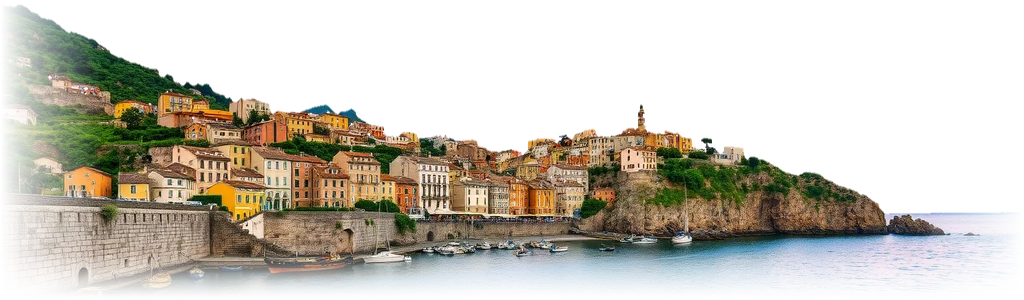
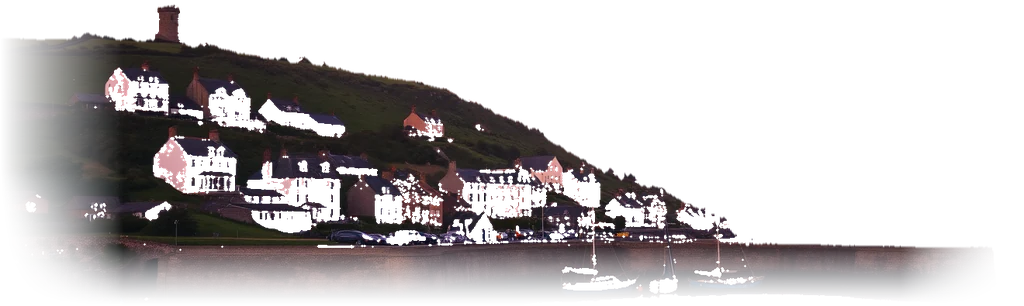
365 Coast Run: scenery pass 5 - each place its own set piece, truer landmarks, livelier countryside and night (owner, 6 Oct)
- Over the road:
  - A chairlift with riders at the Needles; a quarry crane at Portland.
  - The natural arch only at Durdle Door, the one place that has one (a deeper, lumpier
    rock). Old Harry and Golden Cap get footbridges and tree tunnels.
- Landmark paintings:
  - Lymington: a flat brick harbour town with its cupola church and marina.
  - Lyme: pastel cottages on the hill, no invented castle.
  - The Needles: low chalk blades with the lighthouse to scale.
  - Durdle Door: softer edges. Night paintings lifted.
- Bournemouth: modern apartment blocks with glass balconies among the hotels, in warmer
  colours and nearer the road.
- Sandbanks: villas in white render with dark glass, side windows, louvres, roof terraces,
  gates and palms.
- Hengistbury at night: lit beach huts with open doors, more lamps, people and kiosks.
- Countryside: car parks with parked cars, picnic tables with families, caravans and
  kiosks, all nearer the road. Ponies by the forest fence.
- Fixes: marina yachts all moored on the seaward side (masts stood on the verge); the
  Cobb taller with a parapet.
- Critic 6.5 -> 7/10 before the second half of the pass.
- Checks: tests 25/25, goal 16/16 both difficulties, browser checks clean; slow PC
  16.7-17.5 ms.
engine v14, models3d v22, world3d v27, coastrun v32; heroes v4.

diff --git a/games/coastrun/models3d.js b/games/coastrun/models3d.js
@@ -183,7 +183,8 @@ const MODELS = {
     k.box(1, 1.8, 0.06, 0, 0.3, 1.31, shade(col, -0.2)).box(0.06, 1.8, 0.07, 0, 0.3, 1.32, trim);
     for (let q = -4; q <= 4; q++) { if (Math.abs(q) > 1) k.box(0.035, 2.25, 0.02, q * 0.26, 0.27, 1.31, shade(col, -0.14)); for (const sd of [-1, 1]) k.box(0.02, 2.25, 0.035, sd * 1.16, 0.27, q * 0.29, shade(col, -0.14)); }   // the planks
     k.box(2.34, 0.1, 2.64, 0, 2.1, 0, trim);   // a trim band under the roof
-    for (const sd of [-1, 1]) k.box(0.03, 0.5, 0.6, sd * 1.16, 1.3, -0.5, '#2a3a48').box(0.04, 0.6, 0.06, sd * 1.165, 1.25, -0.5, trim);   // a little window each side
+    for (const sd of [-1, 1]) k.box(0.03, 0.5, 0.6, sd * 1.16, 1.3, -0.5, v >= 6 ? '#ff9a2e' : '#2a3a48', 0, 0, 0, v >= 6 ? 'glow' : 'lit').box(0.04, 0.6, 0.06, sd * 1.165, 1.25, -0.5, trim);   // a little window each side (lit, at night)
+    if (v >= 6) k.box(0.9, 1.5, 0.05, 0, 0.35, 1.34, '#ff8a1e', 0, 0, 0, 'glow').box(0.2, 0.2, 0.2, 0, 2.15, 1.4, '#ffd27a', 0, 0, 0, 'glow').box(2.2, 0.02, 1.6, 0, 0.27, 2.2, '#7a4a1a', 0, 0, 0, 'glow');   // the door open on a warm room, a lamp over it, its light on the boards   // the door open, a lamp over it
   },
   brolly(k, v) {
     const cols = [['#e63946', '#ffffff'], ['#1d7fd6', '#ffffff'], ['#f4a261', '#2a9d8f'], ['#ffd23f', '#ee4266']][v % 4];
@@ -197,7 +198,8 @@ const MODELS = {
     if (!v) { const r = rnd(9); for (let i = 0; i < 10; i++) k.ball(0.09, (r() - 0.5) * 2, 1 + r() * 0.6, (r() - 0.5) * 1.6, ['#ff5fa2', '#ffd23f', '#ffffff', '#ff7b39'][i % 4], 1, 1, 1, 'lit', 5); }
   },
   hotel(k, v) {
-    const wall = ['#f2ead8', '#e9e2d6', '#f6efe0', '#dfe6ea'][v % 4], roof = ['#9a5b45', '#5a6670', '#8a4f3c', '#4f5d6a'][v % 4], fl = 5 + (v % 3);
+    if (v >= 4) return apartments(k, v);
+    const wall = ['#f2ead8', '#e9e2d6', '#f6efe0', '#dfe6ea'][v % 4], roof = ['#9a5b45', '#5a6670', '#8a4f3c', '#4f5d6a'][v % 4], fl = [5, 7, 6, 4][v % 4];
     const H = fl * 3.2, glass = ['#3d5a70', '#47627a', '#3a5566', '#4a6478'][v % 4], trim = '#f7f6f2', awn = ['#1d4e89', '#9b3a2c', '#1f6f50', '#2b2d42'][v % 4];
     k.box(22, H, 14, 0, 0, 0, wall).prism(15, 4, 23, 0, H, 0, roof, Math.PI / 2);
     k.box(22.7, 0.55, 14.7, 0, H - 0.2, 0, trim).box(22.3, 3.0, 14.3, 0, 0, 0, shade(wall, -0.07));   // the cornice; the ground floor a shade deeper
@@ -436,12 +438,20 @@ const MODELS = {
     for (let i = 0; i < 4; i++) { const x = -4.5 + i * 3; k.cyl(0.05, 0.06, 6, 6, x, 0, 0, '#d8dde2'); k.box(1.6, 1, 0.04, x + 0.82, 4.8, 0, ['#d32f2f', '#ffd23f', '#1d7fd6', '#2a9d8f', '#ffffff'][(i + v) % 5], 0, 0, 0.08); }
   },
   villa(k, v) {   // Sandbanks: a smart white house of stacked boxes, glass walls to the sea, a pool
-    const w = ['#f6f6f2', '#eef0f0', '#f4efe6', '#e8eef2'][v % 4], gl = '#3d6f8c';
+    const w = ['#f8f8f4', '#f2efe8', '#f6f2ea', '#eef0ee'][v % 4], gl = '#25323e';
     k.box(15, 4, 10, 0, 0, 0, w).box(10, 3.6, 8, v % 2 ? 2 : -2, 4, -0.6, w);
     k.box(14, 2.8, 0.15, 0, 0.6, 5.06, gl, 0, 0, 0, 'shiny').box(9, 2.6, 0.15, v % 2 ? 2 : -2, 4.5, 3.46, gl, 0, 0, 0, 'shiny');
     k.box(15.6, 0.28, 10.6, 0, 4, 0, '#d9d9d4').box(10.6, 0.28, 8.6, v % 2 ? 2 : -2, 7.6, -0.6, '#d9d9d4');
     k.box(15, 0.9, 0.06, 0, 4.28, 5.25, '#bcd7e6', 0, 0, 0, 'shiny');   // the glass balcony rail
-    k.box(7, 0.06, 3.2, -3, 0, 7.2, '#29b4dc', 0, 0, 0, 'shiny').box(7.6, 0.2, 3.8, -3, -0.05, 7.2, '#e7e2d6');   // the pool
+    k.box(7, 0.06, 3.2, -3, 0, 7.2, '#29b4dc', 0, 0, 0, 'shiny').box(7.6, 0.2, 3.8, -3, -0.05, 7.2, '#e7e2d6');
+    const ux = v % 2 ? 2 : -2;
+    for (const sd of [-1, 1]) { k.box(0.12, 2.2, 7, sd * 7.52, 0.9, 0, gl, 0, 0, 0, 'shiny').box(0.12, 2.0, 5, ux + sd * 5.02, 4.7, -0.6, gl, 0, 0, 0, 'shiny'); }   // windows round the sides
+    for (let i = 0; i < 12; i++) k.box(0.12, 2.8, 0.06, ux - 4.4 + i * 0.8, 4.4, 3.62, ['#c9a46a', '#8a8f96', '#d8d2c4', '#5a5f66'][v % 4]);   // a louvred sunshade over the upper glass
+    k.box(10.2, 0.9, 0.06, ux, 7.9, 3.45, '#bcd7e6', 0, 0, 0, 'shiny').cyl(0.05, 0.05, 2.2, 5, ux + 3, 7.9, 1, '#e8e4da');   // the roof terrace: its glass rail, a parasol
+    k.cone(1.6, 0.5, 8, ux + 3, 9.9, 1, ['#ffffff', '#1d3557', '#e9c46a', '#2a9d8f'][v % 4]);
+    k.box(17, 1.3, 0.4, 0, 0, 9.6, w).box(2.6, 1.4, 0.1, 5.5, 0, 9.75, '#5a5f66');   // the front wall, the gate
+    k.cyl(0.18, 0.28, 5.5, 6, 6.2, 0, 7.8, '#8a6a48');
+    for (let i = 0; i < 7; i++) { const a = i / 7 * Math.PI * 2; k.box(0.5, 0.06, 2.6, 6.2 + Math.cos(a) * 1.2, 5.4, 7.8 + Math.sin(a) * 1.2, '#3f8a3a', -a + Math.PI / 2, 0.45, 0); }   // a palm in the garden   // the pool
   },
   terrace(k, v) {   // Weymouth and Lyme: a tall painted house in a row along the front (its face +Z) - framed sash windows with sills, a bay
     // or an iron balcony on the first floor, a shopfront and awning on some, a cornice, the chimney stack and its pots
@@ -491,7 +501,7 @@ const MODELS = {
     const R = 80, n = 40, r = rnd(77);
     for (let i = 0; i < n; i++) {
       const a = -0.15 + i * 0.04, x = Math.sin(a) * R, z = R - Math.cos(a) * R, c = i % 3 ? '#a8a08c' : '#9e9682';
-      k.box(3.7, 6, 9, x, -3, z, c, -a).box(3.7, 1.5, 2, x + 3.6 * Math.sin(a), 3, z - 3.6 * Math.cos(a), shade(c, -0.08), -a);   // the arm, its parapet
+      k.box(3.7, 8, 10, x, -3, z, c, -a).box(3.7, 2.2, 2.2, x + 4 * Math.sin(a), 5, z - 4 * Math.cos(a), shade(c, -0.08), -a).box(3.7, 1.2, 3, x - 4.6 * Math.sin(a), 3.2, z + 4.6 * Math.cos(a), shade(c, 0.06), -a);   // the arm, its parapet, the step down inside
     }
     const ae = -0.15 + n * 0.04, hx = Math.sin(ae) * R, hz = R - Math.cos(ae) * R;
     k.cyl(6, 7, 7.5, 16, hx, -3, hz, '#a49c88').cyl(6.2, 6.2, 0.4, 16, hx, 4.5, hz, '#8e8774');   // the round head
@@ -541,10 +551,11 @@ const MODELS = {
     const sh = new THREE.Shape(), q = rnd(410 + v), j = (a) => a + (q() - 0.5) * 2;
     sh.moveTo(-28, 0); [[-27, 8], [-24, 15], [-18, 20.5], [-9, 23.5], [0, 24], [9, 23], [18, 20], [24, 14], [27.5, 7]].forEach(([x, y]) => sh.lineTo(j(x), j(y))); sh.lineTo(28, 0);
     sh.lineTo(14.8, 0); sh.lineTo(14.8, 3.5); sh.absarc(0, 3.5, 14.8, 0, Math.PI, false); sh.lineTo(-14.8, 0); sh.lineTo(-28, 0);   // (the opening clear of the boundary, 14.2 out)
-    const g = new THREE.ExtrudeGeometry(sh, { depth: 8, bevelEnabled: true, bevelThickness: 1.6, bevelSize: 1.4, bevelSegments: 2, curveSegments: 14 }); g.translate(0, 0, -4); g.computeVertexNormals();
+    const g = new THREE.ExtrudeGeometry(sh, { depth: 15, bevelEnabled: true, bevelThickness: 2.2, bevelSize: 1.4, bevelSegments: 2, curveSegments: 14 }); g.translate(0, 0, -7.5); g.computeVertexNormals();   // (deep: from the side a thin one read as a ring)
     k.put(g, '#d2c7ab', 0, 0, 0, 0, 0, 0, 1, 1, 1, 'lit');   // (plain weathered rock: the masonry texture made it a bridge)
-    for (const sd of [-1, 1]) for (let i = 0; i < 3; i++) k.blob(3.6 + q() * 2.2, sd * (21 + q() * 3), 2 + i * 4.5, (q() - 0.5) * 7, '#cfc4a8', 1, 1.2, 1, 430 + v * 9 + i + (sd > 0 ? 5 : 0));   // lumps on the legs
-    k.blob(9, 0, 22.9, 0, '#6f9a45', 1.9, 0.26, 0.72, 440 + v);   // grass on top (hugging the rock: wider and thinner, from below it read as a green line in the sky)
+    for (const sd of [-1, 1]) for (let i = 0; i < 4; i++) k.blob(3.8 + q() * 2.4, sd * (21 + q() * 3), 2 + i * 4.2, (q() - 0.5) * 13, '#cfc4a8', 1, 1.2, 1, 430 + v * 9 + i + (sd > 0 ? 5 : 0));   // lumps on the legs
+    for (let i = 0; i < 4; i++) k.blob(4 + q() * 2, (q() - 0.5) * 30, 20 + q() * 3, (q() - 0.5) * 12, '#d6ccb2', 1.3, 0.7, 1, 450 + v * 9 + i);   // and over the top
+    k.blob(9, 0, 22.6, 0, '#6f9a45', 1.8, 0.32, 1.0, 440 + v);   // grass on top (hugging the rock: wider and thinner, from below it read as a green line in the sky)
   },
   treearch(k, v) {   // old trees either side of the lane, their crowns meeting over the road: a green tunnel 60 m long to drive through.
     // The crowns are solid lumpy balls of leaves (leaf cards, seen from right underneath, showed as flat planks across the sky)
@@ -587,8 +598,8 @@ const MODELS = {
   marina(k, v) {   // a pontoon along the shore with yachts moored either side: a forest of masts (v 3+: at night, lit)
     const night = v >= 3, r = rnd(800 + v), wood = night ? '#4a4038' : '#9a8266';
     k.box(2, 0.3, 44, 0, 0.1, 0, wood);
-    for (let z = -20; z <= 20; z += 5) { for (const sd of [-1, 1]) k.box(4.6, 0.25, 0.7, sd * 3.3, 0.1, z, wood); for (const sd of [-1, 1]) k.cyl(0.16, 0.16, 2.2, 5, sd * 1.05, -1.4, z, '#3a3028'); }   // the fingers, the piles
-    for (let z = -17.5; z <= 17.5; z += 5) for (const sd of [-1, 1]) if (r() < 0.85) moored(k, sd * 1.2, z, sd * (8 + r() * 3), r, night);
+    for (let z = -20; z <= 20; z += 5) { k.box(4.6, 0.25, 0.7, 3.3, 0.1, z, wood); for (const sd of [-1, 1]) k.cyl(0.16, 0.16, 2.2, 5, sd * 1.05, -1.4, z, '#3a3028'); }   // the fingers, the piles
+    for (let z = -17.5; z <= 17.5; z += 5) for (const off of [0, 2.5]) if (r() < 0.85) moored(k, 1.2, z + off, 8 + r() * 3, r, night);   // (all out on the seaward side, +X)
     if (night) for (let z = -20; z <= 20; z += 10) k.box(0.2, 0.2, 0.2, 0, 1.2, z, '#ffe2a0', 0, 0, 0, 'glow').cyl(0.06, 0.06, 1, 4, 0, 0.3, z, '#2a2e36');
   },
   quaylight(k) { k.cyl(0.12, 0.16, 1.0, 6, 0, 0, 0, '#2a2e36').box(0.24, 0.24, 0.24, 0, 1.0, 0, '#ffe2a0', 0, 0, 0, 'glow'); },   // a lamp on the quay's edge
@@ -643,6 +654,45 @@ const MODELS = {
     }
     k.box(27, 0.8, 4, 0, 13.2, 0, '#d8dce0').box(27, 0.3, 4.1, 0, 13.0, 0, '#3ec1ff', 0, 0, 0, 'glow');   // the gantry over the road, lit underneath
   },
+  carpark(k, v) {   // a clifftop car park: gravel, a row of parked cars, a pay machine, people heading off for a walk
+    const r = rnd(1000 + v * 3), cols = ['#d62828', '#1d4ed8', '#f4f4f4', '#2b2d42', '#f2c14e', '#2a9d8f', '#8d99ae', '#e76f51'];
+    k.box(20, 0.08, 9, 0, -0.02, 0, '#bdb4a2');
+    for (let i = 0; i < 6; i++) { if (r() < 0.2) continue; const x = -8 + i * 3.2, c = cols[(r() * 8) | 0];
+      k.box(1.8, 0.75, 4.1, x, 0.32, 0, c, 0, 0, 0, 'shiny').box(1.6, 0.6, 2.1, x, 1.07, 0.2, shade(c, -0.1)).box(1.62, 0.45, 1.9, x, 1.12, 0.2, '#2a3a48', 0, 0, 0, 'shiny');
+      for (const [wx, wz] of [[-0.85, -1.3], [0.85, -1.3], [-0.85, 1.3], [0.85, 1.3]]) k.axle(0.33, 0.24, 10, x + wx, 0.33, wz, '#151515');
+      if (r() < 0.4) k.box(1.4, 0.4, 0.9, x, 1.67, 0.2, ['#c62828', '#e8e4da', '#3a3a3a'][(r() * 3) | 0]); }   // a roof box or bikes
+    k.box(0.5, 1.5, 0.4, 9.5, 0, 3.5, '#2a5a8a').box(0.4, 0.3, 0.06, 9.5, 1.1, 3.72, '#c8d8e8', 0, 0, 0, 'shiny');
+    for (let i = 0; i < 2 + (v % 2); i++) person(k, 7.5 + i * 0.8, 0, 5 + r(), r, false);
+  },
+  picnic(k, v) {   // a picnic table on the grass, a family sat round it
+    const r = rnd(1040 + v);
+    k.box(1.8, 0.08, 0.8, 0, 0.72, 0, '#9a7a52');
+    for (const sd of [-1, 1]) { k.box(1.8, 0.06, 0.3, 0, 0.42, sd * 0.68, '#8a6a48'); k.box(0.08, 0.72, 1.7, sd * 0.75, 0, 0, '#7a5c3c', 0, sd * 0.35, 0); }
+    for (let i = 0; i < 2 + (v % 2); i++) { const z = i % 2 ? 0.75 : -0.75; sitter(k, -0.5 + (i >> 1), 0.12, z, r); }
+    k.box(0.4, 0.3, 0.3, 0.3, 0.8, 0, '#d8c8a8');   // a hamper
+    if (v % 2) for (let i = 0; i < 1; i++) person(k, 2.0, 0, 0.8, r, true);
+  },
+  chairlift(k, v) {   // a clifftop chairlift crossing over the road: two lattice towers, the cables, open chairs with people riding
+    const r = rnd(1100 + v), steel = '#5a6470';
+    for (const sd of [-1, 1]) { const x = sd * 15.8;
+      for (const [dx, dz] of [[-0.7, -0.7], [0.7, -0.7], [-0.7, 0.7], [0.7, 0.7]]) k.box(0.18, 12, 0.18, x + dx * 0.6, 0, dz * 0.6, steel, 0, dx * 0.05, -dz * 0.05);
+      for (let y = 2; y < 12; y += 2.5) k.box(1.0, 0.1, 0.1, x, y, -0.45, steel).box(1.0, 0.1, 0.1, x, y, 0.45, steel);
+      k.box(1.2, 0.5, 4.6, x, 12, 0, '#c8462a'); }
+    for (const z of [-2, 2]) k.box(31.6, 0.06, 0.06, 0, 11.4 - (z > 0 ? 0.6 : 0), z, '#2a2a2a');
+    for (let i = 0; i < 6; i++) { const z = i % 2 ? 2 : -2, x = -12 + i * 4.8 + (r() - 0.5), y = 10.6 - (z > 0 ? 0.6 : 0);
+      k.box(0.05, 1.6, 0.05, x, y - 1.6, z, '#2a2a2a').box(1.3, 0.12, 0.6, x, y - 2.3, z, ['#2a9d8f', '#e9c46a', '#e76f51'][i % 3]).box(1.3, 0.6, 0.08, x, y - 2.3, z - 0.3, ['#2a9d8f', '#e9c46a', '#e76f51'][i % 3]);
+      if (r() < 0.75) { person(k, x - 0.25, y - 3.15, z, r, r() < 0.5); if (r() < 0.5) person(k, x + 0.3, y - 3.15, z, r, false); } }
+  },
+  craneway(k, v) {   // a quarry's travelling crane spanning the road: two braced legs, a girder across, the crab and hook, a block of stone hanging
+    const y0 = '#d9a400', rust = '#8a5a3a';
+    for (const sd of [-1, 1]) { const x = sd * 15.6;
+      k.box(0.6, 11, 0.6, x, 0, -2, y0).box(0.6, 11, 0.6, x, 0, 2, y0).box(0.3, 0.3, 4, x, 5.5, 0, y0).box(0.3, 4.6, 0.3, x, 3.2, 0, y0, 0, 0.8, 0);
+      k.box(1.4, 0.8, 5, x, 0, 0, '#3a3a3a'); }
+    k.box(33, 1.2, 1.2, 0, 11, -1.4, y0).box(33, 1.2, 1.2, 0, 11, 1.4, y0);
+    for (let x = -15; x <= 15; x += 2.5) k.box(0.15, 1.2, 2.6, x, 11, 0, y0, 0, 0.6, 0);
+    k.box(3, 1.6, 3.6, 4, 12.2, 0, rust).box(1.6, 1.2, 1.4, 4, 13.8, 0, '#2a3a48', 0, 0, 0, 'shiny');   // the crab, its cab
+    k.box(0.05, 3.2, 0.05, 4, 8, 0, '#2a2a2a').box(2.6, 1.4, 1.6, 4, 6.6, 0, '#e8e2d2', 0, 0.2, 0, 'stone');   // a block of Portland stone on the hook
+  },
   balloon(k, v) {   // a hot-air balloon, far off over the land
     const c = [['#e63946', '#ffd23f'], ['#1d7fd6', '#ffffff'], ['#2a9d8f', '#f4a261'], ['#9b5de5', '#ffd23f']][v % 4];
     for (let i = 0; i < 10; i++) k.put(new THREE.SphereGeometry(8, 3, 14, i * Math.PI / 5, Math.PI / 5), c[i % 2], 0, 16, 0, 0, 0, 0, 1, 1.22, 1);
@@ -651,7 +701,20 @@ const MODELS = {
     for (const [x, z] of [[-0.8, -0.8], [0.8, -0.8], [-0.8, 0.8], [0.8, 0.8]]) k.cyl(0.03, 0.03, 2.4, 3, x, 3.4, z, '#5a4a30');
   },
 };
-const capG = (r, l) => new THREE.CapsuleGeometry(r, l, 2, 7);   // (people and ponies come in crowds now: kept light)
+const capG = (r, l) => new THREE.CapsuleGeometry(r, l, 2, 7);
+function apartments(k, v) {   // a modern seafront block (its face +Z): white bands of balconies with glass fronts, a set-back top floor, coloured panels
+  const fl = 6 + (v % 3) * 2, H = fl * 3.0, gl = '#4a6a80', acc = ['#2a9d8f', '#e9c46a', '#e76f51', '#457b9d'][v % 4], wall = ['#f4f4f0', '#f2e2c0', '#e9b8a0', '#e8e4dc'][v % 4];
+  k.box(20, H, 13, 0, 0, 0, wall).box(16, 3, 10, 0, H, -1, wall).box(16.6, 0.3, 10.6, 0, H + 3, -1, '#d8d8d2');   // the block, the set-back penthouse
+  k.box(15.4, 2.4, 0.12, 0, H + 0.3, 4.05, gl, 0, 0, 0, 'shiny');
+  for (let f = 0; f < fl; f++) {
+    const y = f * 3.0;
+    k.box(20.6, 0.28, 2.0, 0, y + 0.02, 7.4, '#fbfbf8');   // the balcony slab
+    if (f) k.box(20.4, 0.95, 0.06, 0, y + 0.3, 8.35, '#bcd7e6', 0, 0, 0, 'shiny');   // its glass front
+    k.box(19.6, 2.3, 0.12, 0, y + 0.35, 6.55, f ? gl : '#3a4a58', 0, 0, 0, 'shiny');   // the glass wall behind
+    for (const x of [-6.5, 0, 6.5]) k.box(0.3, 3.0, 2.0, x, y, 7.4, f % 2 ? acc : wall);   // dividers, every other floor coloured
+  }
+  for (const sd of [-1, 1]) for (let f = 1; f < fl; f++) k.box(0.12, 1.6, 7, sd * 10.05, f * 3.0 + 0.7, -1, gl, 0, 0, 0, 'shiny');   // side windows in a band
+}   // (people and ponies come in crowds now: kept light)
 function ponyAt(k, x, z, col, s, graze) {   // a stocky forest pony, head to -Z: a round barrel of a body, slim legs, a dark mane and tail
   const dk = shade(col, -0.35);
   for (const [lx, lz] of [[-0.2, -0.55], [0.2, -0.55], [-0.2, 0.55], [0.2, 0.55]]) k.put(capG(0.06 * s, 0.72 * s), col, x + lx * s, 0.4 * s, z + lz * s).box(0.13 * s, 0.1 * s, 0.14 * s, x + lx * s, 0, z + lz * s, '#2a2420');

diff --git a/games/coastrun/world3d.js b/games/coastrun/world3d.js
@@ -18,7 +18,7 @@ import { RenderPass } from '../common/vendor/three-r185/addons/postprocessing/Re
 import { UnrealBloomPass } from '../common/vendor/three-r185/addons/postprocessing/UnrealBloomPass.js';
 import { OutputPass } from '../common/vendor/three-r185/addons/postprocessing/OutputPass.js';
 import { ShaderPass } from '../common/vendor/three-r185/addons/postprocessing/ShaderPass.js';
-import * as MD from './models3d.js?v=21';
+import * as MD from './models3d.js?v=22';
 
 const E = window.CREngine, ART = window.CRArt, PAL = ART.PAL;
 const SEG = E.SEG, HALF = E.HALF, RUM = E.RUMBLE, CH = 20;
@@ -111,7 +111,7 @@ const lit = (look) => !!(look.night || look.dusk);   // lamps and headlights on
 // OutRun's way (owner, 5 Oct): the land side of the road ends at a boundary, and the place is packed in right behind it
 const VERGE_K = { bournemouth: 'prom', sandbanks: 'prom', weymouth: 'prom', christchurch: 'hedge', lymington: 'hedge', goldencap: 'hedge', purbeck: 'wall', lyme: 'wall', portland: 'wall', forest: 'fence', swanage: 'vpost', jurassic: 'vpost', needles: 'vpost', hengistbury: 'vpost', harbour: 'rail' };
 const ROWS = {   // set out at a steady spacing behind the boundary: [model, variants, every so many segments, how far out, sideways jitter]
-  bournemouth: [['hotel', 4, 7, 36, 0], ['palm', 3, 2, 16.6, 2.5]], sandbanks: [['villa', 4, 6, 30, 3], ['palm', 3, 3, 16.6, 2]],
+  bournemouth: [['hotel', 8, 7, 29, 2], ['palm', 3, 2, 16.6, 2.5]], sandbanks: [['villa', 4, 7, 28, 3], ['palm', 3, 3, 16.6, 2]],
   weymouth: [['terrace', 6, 3, 21, 0]], lyme: [['terrace', 6, 4, 22, 0]], harbour: [['building', 4, 6, 27, 2]],
   christchurch: [['tpole', 1, 12, 15.6, 0], ['cottage', 2, 14, 26, 6]], lymington: [['cottage', 2, 9, 24, 5], ['tpole', 1, 12, 15.6, 0]],
   purbeck: [['tpole', 1, 12, 15.6, 0]], hengistbury: [['lamp', 2, 6, 15.4, 0]], swanage: [['tpole', 1, 12, 15.6, 0]], goldencap: [['tpole', 1, 12, 15.6, 0]], needles: [['tpole', 1, 14, 15.6, 0]]
@@ -121,12 +121,12 @@ const BUNT = { bournemouth: 1, weymouth: 1, lyme: 1, christchurch: 1, lymington:
 const MORE = {   // closer, thicker dressing behind the boundary (as look.dress: [model, variants, a segment, from, to])
   bournemouth: [['palm', 3, 0.22, 17, 28], ['flowerbed', 3, 0.28, 15.6, 18], ['strollers', 8, 0.16, 15.4, 19.5]], sandbanks: [['palm', 3, 0.22, 17, 28], ['bush', 2, 0.25, 15.6, 22], ['strollers', 8, 0.1, 15.4, 19]],
   christchurch: [['oak', 1, 0.2, 17, 40], ['bush', 2, 0.25, 15.6, 22]], purbeck: [['oak', 1, 0.2, 17, 45], ['sheep', 2, 0.3, 17, 50]],
-  swanage: [['sheep', 2, 0.35, 17, 50], ['gorse', 1, 0.3, 15.6, 30], ['drywall', 3, 0.06, 17, 40], ['caravan', 4, 0.04, 22, 48], ['kiosk', 3, 0.012, 16, 20]],
-  forest: [['pine', 1, 0.7, 15.8, 36], ['beech', 2, 0.6, 15.8, 36], ['oak', 3, 0.3, 16.5, 40], ['ponies', 4, 0.09, 15, 27]],
-  jurassic: [['gorse', 1, 0.35, 15.6, 35], ['heather', 2, 0.45, 15.6, 35], ['drywall', 3, 0.06, 17, 40], ['caravan', 4, 0.05, 22, 48], ['kiosk', 3, 0.012, 16, 20], ['sheep', 2, 0.15, 17, 45]], weymouth: [['flowerbed', 3, 0.3, 15.6, 18], ['strollers', 8, 0.16, 15.4, 18.5]],
+  swanage: [['sheep', 2, 0.35, 17, 50], ['gorse', 1, 0.3, 15.6, 30], ['drywall', 3, 0.06, 17, 40], ['caravan', 4, 0.06, 18, 34], ['kiosk', 3, 0.025, 15.6, 18], ['carpark', 4, 0.03, 16.5, 22], ['picnic', 3, 0.05, 15.2, 21]],
+  forest: [['pine', 1, 0.7, 15.8, 36], ['beech', 2, 0.6, 15.8, 36], ['oak', 3, 0.3, 16.5, 40], ['ponies', 4, 0.1, 14.8, 19.5]],
+  jurassic: [['gorse', 1, 0.35, 15.6, 35], ['heather', 2, 0.45, 15.6, 35], ['drywall', 3, 0.06, 17, 40], ['caravan', 4, 0.06, 18, 34], ['kiosk', 3, 0.025, 15.6, 18], ['sheep', 2, 0.15, 17, 45], ['carpark', 4, 0.03, 16.5, 22], ['picnic', 3, 0.05, 15.2, 21]], weymouth: [['flowerbed', 3, 0.3, 15.6, 18], ['strollers', 8, 0.16, 15.4, 18.5]],
   lymington: [['oak', 1, 0.2, 17, 40], ['bush', 2, 0.3, 15.6, 25]], lyme: [['oak', 1, 0.15, 17, 40], ['bush', 2, 0.25, 15.6, 22], ['strollers', 8, 0.1, 15.4, 19]],
-  portland: [['heather', 2, 0.35, 15.6, 30], ['bush', 2, 0.15, 15.6, 25], ['drywall', 3, 0.09, 17, 40], ['rock', 3, 0.1, 16, 40]], goldencap: [['oak', 1, 0.2, 17, 45], ['sheep', 2, 0.25, 17, 50], ['bush', 2, 0.25, 15.6, 25], ['hay', 1, 0.06, 17, 40], ['drywall', 3, 0.05, 17, 40], ['caravan', 4, 0.03, 24, 48]],
-  hengistbury: [['heather', 2, 0.5, 15.6, 40], ['gorse', 1, 0.3, 15.6, 40], ['strollers', 8, 0.05, 15.4, 19], ['kiosk', 3, 0.01, 16, 20]], needles: [['heather', 2, 0.4, 15.6, 40], ['sheep', 2, 0.25, 17, 50], ['drywall', 3, 0.06, 17, 40], ['kiosk', 3, 0.012, 16, 20], ['strollers', 8, 0.04, 15.4, 19]]
+  portland: [['heather', 2, 0.35, 15.6, 30], ['bush', 2, 0.15, 15.6, 25], ['drywall', 3, 0.09, 17, 40], ['rock', 3, 0.1, 16, 40], ['carpark', 4, 0.03, 16.5, 22], ['caravan', 4, 0.05, 18, 34]], goldencap: [['oak', 1, 0.2, 17, 45], ['sheep', 2, 0.25, 17, 50], ['bush', 2, 0.25, 15.6, 25], ['hay', 1, 0.06, 17, 40], ['drywall', 3, 0.05, 17, 40], ['caravan', 4, 0.05, 18, 34], ['carpark', 4, 0.03, 16.5, 22], ['picnic', 3, 0.05, 15.2, 21]],
+  hengistbury: [['heather', 2, 0.5, 15.6, 40], ['gorse', 1, 0.3, 15.6, 40], ['strollers', 8, 0.1, 15.4, 19], ['kiosk', 3, 0.02, 16, 20], ['carpark', 4, 0.03, 16.5, 22]], needles: [['heather', 2, 0.4, 15.6, 40], ['sheep', 2, 0.25, 17, 50], ['drywall', 3, 0.06, 17, 40], ['kiosk', 3, 0.025, 15.6, 18], ['strollers', 8, 0.04, 15.4, 19], ['carpark', 4, 0.03, 16.5, 22], ['picnic', 3, 0.05, 15.2, 21], ['caravan', 4, 0.05, 18, 34]]
 };
 for (const k in MORE) LOOK[k].dress = (LOOK[k].dress || []).concat(MORE[k]);
 const SEA_MORE = { bournemouth: [['windsurf', 4, 0.07, 30, 220], ['motorboat', 4, 0.04, 40, 200]], sandbanks: [['windsurf', 4, 0.09, 25, 220], ['motorboat', 4, 0.05, 30, 200], ['marina', 3, 0.02, 7, 12]],
@@ -138,8 +138,8 @@ const BEACH = {   // the beach between the road and the water: [model, variants,
 };
 const QUAY = { harbour: 1 };   // lamps along the water's edge (at night the quay side was a black void)
 const BG_IMG = { bournemouth: 4, sandbanks: 4, christchurch: 4, purbeck: 4, swanage: 4, forest: 4, jurassic: 4, weymouth: 4, harbour: 4, lymington: 4, lyme: 4, portland: 4, goldencap: 4, needles: 4 };   // the places with a painted panorama (games/coastrun/bg/<place>.webp), and its version
-const HERO = { bournemouth: 44, sandbanks: 46, christchurch: 44, purbeck: 56, swanage: 17, forest: 30, jurassic: 34, weymouth: 38, harbour: 38, lymington: 40, lyme: 44, portland: 40, goldencap: 50, hengistbury: 44, needles: 40 };   // each place's landmark painted large (tools/coastrun/gen_hero.py): how wide it stands, in degrees
-const HERO_V = 2, HERO_D = 2150, MARK_OFF = 0.17;   // (the landmark sits just off the road ahead, to the sea side: further out, the beach huts and the prom hid it)
+const HERO = { bournemouth: 44, sandbanks: 46, christchurch: 44, purbeck: 56, swanage: 17, forest: 30, jurassic: 34, weymouth: 38, harbour: 38, lymington: 46, lyme: 46, portland: 40, goldencap: 50, hengistbury: 44, needles: 52 };   // each place's landmark painted large (tools/coastrun/gen_hero.py): how wide it stands, in degrees
+const HERO_V = 4, HERO_D = 2150, MARK_OFF = 0.17;   // (the landmark sits just off the road ahead, to the sea side: further out, the beach huts and the prom hid it)
 const BGL = new THREE.TextureLoader();
 
 // ---------------------------------------------------------------- the sky: the colours, the sun and its glow, the clouds
@@ -793,14 +793,14 @@ export function createWorld() {
         let ry = hash2(i, Math.round(it.x * 10)) * Math.PI * 2;
         if (/^(hut|cottage|hotel|building|board|finger|forestsign|lamp|villa|terrace|clock)$/.test(it.t)) ry = fr;
         if (it.t === 'lamp') ry = fr + Math.PI;   // the arm reaches over the road
-        if (/^(gate|gantry|nose|chev|warn|gpost|footbridge|viaduct|banner|rockarch|treearch|pierarch|liftbridge)$/.test(it.t)) ry = -P.th;
+        if (/^(gate|gantry|nose|chev|warn|gpost|footbridge|viaduct|banner|rockarch|treearch|pierarch|liftbridge|chairlift|craneway)$/.test(it.t)) ry = -P.th;
         if (it.t === 'priory' || it.t === 'cobb' || it.t === 'goldcap' || it.t === 'headland') ry = fr;
         if (it.t === 'arch') ry = -P.th + (it.x < 0 ? Math.PI : 0);   // Durdle Door side-on from the road, its high end towards the shore
         if (it.t === 'board') ry = -P.th + d * 0.5;
         if (it.t === 'pier' || it.t === 'ferry') ry = fr + Math.PI / 2;
         let y = P.y;
         if (/^(yacht|buoy|stack|arch|needles|ferry|pier|cobb|goldcap|headland)$/.test(it.t)) y = 0;
-        else if (/^(footbridge|viaduct|rockarch|treearch|pierarch|liftbridge)$/.test(it.t)) y = P.y - (it.t === 'rockarch' ? 1.5 : 0.3);
+        else if (/^(footbridge|viaduct|rockarch|treearch|pierarch|liftbridge|chairlift|craneway)$/.test(it.t)) y = P.y - (it.t === 'rockarch' ? 1.5 : 0.3);
         else if (it.t === 'lighthouse') y = P.y - 6;
         else if (Math.abs(it.x) > HALF + 2) y = groundAt(W, g, P, it.x);
         if (SIGNS[it.t]) { signParts(W, i, g, it, P, y, ry, signs, addModel, addAll); if (it.t === 'gate' || it.t === 'gantry' || it.t === 'banner') continue; }
@@ -867,7 +867,7 @@ export function createWorld() {
         const sm = SEA_MORE[key]; if (!sm || !g.sh) continue;
         sm.forEach((t, ti) => { const h0 = hash2(i * 5 + ti, d * 17 + 9); if (h0 > t[2]) return;
           const h1 = hash2(i * 11, ti * 3 + d), h2 = hash2(i * 7 + 3, ti - d), mar = t[0] === 'marina'; place(W, i * SEG + h2 * SEG, d * (g.sh + t[3] + h1 * (t[4] - t[3])), 0, DP);
-          addAll(MD.model(t[0], key === 'harbour' && mar ? 3 + Math.floor(h1 * 991) % 3 : Math.floor(h1 * 991) % t[1]), DP.x, 0, DP.z, -DP.th + (mar ? 0 : (h2 - 0.5) * 1.2), 1); });   // (a marina lies along the shore)
+          addAll(MD.model(t[0], key === 'harbour' && mar ? 3 + Math.floor(h1 * 991) % 3 : Math.floor(h1 * 991) % t[1]), DP.x, 0, DP.z, -DP.th + (mar ? (d < 0 ? Math.PI : 0) : (h2 - 0.5) * 1.2), 1); });   // (a marina lies along the shore, its boats out to sea)   // (a marina lies along the shore)
         continue;
       }
       look.dress.forEach((t, ti) => {
@@ -877,8 +877,8 @@ export function createWorld() {
           const lat = t[3] + fo + h1 * (t[4] - t[3]); if (d === innerSide && lat > inner) continue;
           place(W, i * SEG + h2 * SEG, d * lat, 0, DP);
           const y = groundAt(W, g, DP, d * lat) - (t[0] === 'tuft' ? 0.05 : 0.25) + (t[0] === 'balloon' ? 60 + h1 * 90 : 0);
-          const ry = /^(hotel|building|villa|terrace|strollers|kiosk)$/.test(t[0]) ? faceRoad(d, DP.th) + (t[0] === 'strollers' ? (h3 - 0.5) * 0.6 : 0) : t[0] === 'drywall' ? -DP.th + (h3 - 0.5) * 0.5 : h3 * Math.PI * 2;
-          addAll(MD.model(t[0], Math.floor(h3 * 997) % t[1]), DP.x, y, DP.z, ry, t[0] === 'tuft' || /^(hotel|building|villa|terrace|balloon|strollers|ponies|caravan|kiosk|drywall)$/.test(t[0]) ? 1 : 0.8 + h2 * 0.45);
+          const ry = /^(hotel|building|villa|terrace|strollers|kiosk|carpark)$/.test(t[0]) ? faceRoad(d, DP.th) + (t[0] === 'strollers' ? (h3 - 0.5) * 0.6 : 0) : t[0] === 'drywall' ? -DP.th + (h3 - 0.5) * 0.5 : h3 * Math.PI * 2;
+          addAll(MD.model(t[0], Math.floor(h3 * 997) % t[1]), DP.x, y, DP.z, ry, t[0] === 'tuft' || /^(hotel|building|villa|terrace|balloon|strollers|ponies|caravan|kiosk|drywall|carpark|picnic)$/.test(t[0]) ? 1 : 0.8 + h2 * 0.45);
         }
       });
     }
@@ -1089,6 +1089,7 @@ export function createWorld() {
             tx.colorSpace = THREE.SRGBColorSpace; tx.anisotropy = 8; if (heroMesh.material.map) heroMesh.material.map.dispose();
             heroMesh.material.map = tx; heroMesh.material.needsUpdate = true;
             const w = 2 * HERO_D * Math.tan(HERO[key] * Math.PI / 360); heroMesh.scale.set(w, w * tx.image.height / tx.image.width, 1);
+            heroMesh.material.color.setScalar(LOOK[key] && LOOK[key].night ? 1.7 : 1);   // (at night the painting is dark: lifted, so the place's landmark still reads)
             R.heroT = 0; R.heroVis = 1; R.heroA = null; heroMesh.visible = true;
           }, undefined, () => { R.heroLoading = false; });
         }

diff --git a/games/coastrun/index.html b/games/coastrun/index.html
@@ -31,13 +31,13 @@
 <body class="arcade-sky">
 <!-- the bar, the game screen and the pop-up sheets are drawn by ../common/arcade.js (the arcade cabinet) -->
 <script type="importmap">{ "imports": { "three": "../common/vendor/three-r185/three.module.min.js" } }</script>
-<script src="engine.js?v=13"></script>
+<script src="engine.js?v=14"></script>
 <script src="../common/social.js?v=4"></script>
 <script src="../common/hof.js?v=2"></script>
 <script src="../common/arcade.js?v=7"></script>
 <script src="art.js?v=11"></script>
 <!-- 5 Oct 2026: rebuilt in 3D (three.js, ../common/vendor/three-r185) - a module, so it runs after the scripts above -->
-<script type="module" src="coastrun.js?v=31"></script>
+<script type="module" src="coastrun.js?v=32"></script>
 <!-- the site's cookie-free visitor count (the same snippet as every page): counts that the game was opened -->
 <script>(function(){try{if(navigator.doNotTrack==="1")return;if(/bot|crawl|spider|slurp|headless|lighthouse|preview|facebookexternalhit/i.test(navigator.userAgent))return;try{if(localStorage.getItem("p365staffdev")||/"staff":true|"back":/.test((localStorage.getItem("p365")||"")+(sessionStorage.getItem("p365s")||"")))return;}catch(e){}var u=navigator.userAgentData,b={site:"t365",path:location.pathname,ref:(function(){try{return new URL(document.referrer).hostname}catch(e){return""}})(),em:/utm_medium=e-?mail|utm_source=(e-?mail|newsletter|hubspot)/i.test(location.search)?1:0,t:navigator.maxTouchPoints||0,sw:(screen&&screen.width)||0,dk:(window.matchMedia&&matchMedia("(prefers-color-scheme: dark)").matches)?1:0,lg:String(navigator.language||"").slice(0,12)},sent=false;if(u&&typeof u.mobile==="boolean")b.mb=u.mobile?1:0;var go=function(){if(sent)return;sent=true;try{fetch("https://visitors-live.steve-2d4.workers.dev/ping",{method:"POST",headers:{"Content-Type":"text/plain;charset=UTF-8"},body:JSON.stringify(b),keepalive:true});}catch(e){}};if(u&&u.getHighEntropyValues&&/Windows/.test(navigator.userAgent)){u.getHighEntropyValues(["platformVersion"]).then(function(h){b.pv=String((h&&h.platformVersion)||"").slice(0,12);go();},go);setTimeout(go,400);}else go();var tap=function(k){try{var d=JSON.parse(JSON.stringify(b));d.path=k;d.ref=location.hostname;d.em=0;fetch("https://visitors-live.steve-2d4.workers.dev/ping",{method:"POST",headers:{"Content-Type":"text/plain;charset=UTF-8"},body:JSON.stringify(d),keepalive:true});}catch(e){}};document.addEventListener("click",function(ev){try{var a=ev.target&&ev.target.closest&&ev.target.closest("a[href]");if(!a)return;var h=a.getAttribute("href")||"";if(/365-pc-manager-setup[^\/?#]*\.exe([?#]|$)/i.test(h))tap("/~dl/pcm/");else if(/^tel:/i.test(h))tap("/~call"+location.pathname);else if(/^sms:/i.test(h))tap("/~text"+location.pathname);}catch(e){}},true);document.addEventListener("tt:lead",function(){tap("/~lead"+location.pathname);});}catch(e){}})();</script>
 </body>

diff --git a/games/coastrun/engine.js b/games/coastrun/engine.js
@@ -172,9 +172,9 @@
   }
   // tunnels, bridges and the things that span the road, somewhere in the middle of the stretch (never on a crest, a
   // gate or a fork). A bridge lifts the road to at least 9 m over the water, easing up to it and down again.
-  var OVERS = { bournemouth: ['pierarch', 'footbridge', 'banner'], sandbanks: ['banner', 'footbridge'], christchurch: ['treearch', 'footbridge'], purbeck: ['treearch', 'viaduct'], swanage: ['rockarch', 'treearch'],
+  var OVERS = { bournemouth: ['pierarch', 'footbridge', 'banner'], sandbanks: ['banner', 'footbridge'], christchurch: ['treearch', 'footbridge'], purbeck: ['treearch', 'viaduct'], swanage: ['footbridge', 'treearch'],
     forest: ['treearch', 'footbridge', 'treearch'], jurassic: ['rockarch', 'footbridge'], weymouth: ['banner', 'footbridge'], harbour: ['liftbridge', 'footbridge', 'banner'], lymington: ['treearch', 'banner'], lyme: ['banner', 'footbridge'],
-    portland: ['rockarch', 'footbridge'], goldencap: ['treearch', 'rockarch'], hengistbury: ['footbridge', 'treearch'], needles: ['rockarch', 'footbridge'] };   // what spans the road in each place
+    portland: ['craneway', 'footbridge'], goldencap: ['treearch', 'footbridge'], hengistbury: ['footbridge', 'treearch'], needles: ['chairlift', 'footbridge'] };   // what spans the road in each place (the natural arch only at Durdle Door, the one place that has one)
   function features(W, S, lo, hi, r) {
     var F = S.feat || {}, used = [], i, tries;
     function free(a, b) { if (a < lo || b > hi) return false; for (var u = 0; u < used.length; u++) if (a < used[u][1] + 50 && b > used[u][0] - 50) return false; for (var q = a; q < b; q++) if (segAt(W, q).crest) return false; return true; }
@@ -404,8 +404,8 @@
           onWater('yacht', 30, 140, 0.012, (r() * 3) | 0);
           break;
         case 'hengistbury':   // Hengistbury Head at twilight: the long row of beach huts on the spit, heath and the harbour
-          lamps(12, 1, true);
-          if (sh > 22 && k % 3 === 0 && land(s, 12.5)) put(W, i, 'hut', 12.5, 1.3, { v: (k / 3) % 6 });
+          lamps(7, 1, true);
+          if (sh > 18 && k % 3 === 0 && land(s, 12.5)) put(W, i, 'hut', 12.5, 1.3, { v: 6 + (k / 3) % 6 });   // (lit up: at night the head was a dark blank)
           if (r() < 0.05) put(W, i, ['gorse', 'heather'][(r() * 2) | 0], -(11.5 + r() * 20), 0.8, { soft: true, v: 1 });
           if (r() < 0.02) put(W, i, 'pine', -(14 + r() * 30), 0.7, { v: 0 });
           onWater('yacht', 20, 120, 0.03, 3 + ((r() * 3) | 0));

diff --git a/games/coastrun/coastrun.js b/games/coastrun/coastrun.js
@@ -4,7 +4,7 @@
  * banners and the little labels) and makes the sounds: one-off effects, and the engine, wind and tyres that follow the
  * car, and the music: a track for each place (music/, Settings > Music, on unless switched off). A browser without 3D graphics
  * gets a short note instead of the game. */
-import { createWorld } from './world3d.js?v=26';
+import { createWorld } from './world3d.js?v=27';
 
 const E = window.CREngine, ART = window.CRArt, A = window.Arcade365;
 let GW = 384; const GH = 224;

diff --git a/tools/coastrun/gen_hero.py b/tools/coastrun/gen_hero.py
@@ -27,12 +27,12 @@ HERO = {   # place: (the landmark, what it stands on, the light) - each place's 
     "jurassic": ("A great natural arch of pale cream limestone standing in the sea at the end of a long ridge of pale cream rock with a green grassy top, the turquoise sea showing through the arch, warm golden late afternoon sun lighting the pale rock", "calm turquoise sea", "day"),
     "weymouth": ("A tall ornate Victorian seafront clock tower, painted in bright colours, standing on a wide promenade in front of a row of elegant Georgian seafront terraces", "golden sandy beach", "day"),
     "harbour": ("A huge white car ferry with a plain white hull with no writing, no name and no logos, all its decks lit up, moored at a quay beside tall cranes and warehouses with lights", "dark harbour water with reflections", "night"),
-    "lymington": ("A little Georgian town of red brick houses climbing a low hill above a river harbour, a church tower with a white cupola at the top, a few moored sailing boats along the quay below", "harbour water", "dusk"),
-    "lyme": ("A massive old stone harbour wall sweeping out into the sea in one long graceful curve, its broad sloping top like a great stone arm, little fishing boats sheltering inside it, the colourful old houses of a little town climbing a green valley behind", "calm sea", "dusk"),
+    "lymington": ("A flat low-lying English harbour town at dusk with no hills: a long quay of red brick Georgian houses and shops along the water's edge, one church tower with a small white cupola rising above the roofs, and in front of the quay a marina packed with white yachts and a forest of masts", "marina water", "dusk"),
+    "lyme": ("A small English seaside town at sunset: rows of pastel-painted cottages stepping up a gentle green hillside, with no castle, no tower, no fortress and no battlements anywhere. In front, a long low grey stone harbour arm curves out into the calm sea in a gentle hook, little fishing boats moored inside its curve", "calm sea", "dusk"),
     "portland": ("A tall red and white striped lighthouse on the rocky limestone tip of an island, a white stone obelisk beside it on the rocks", "rocky shore and sea", "dusk"),
     "goldencap": ("A huge rounded hill on the coast, its top a flat green grassy summit; its seaward face a sheer cliff with a thin band of bright golden-yellow sandstone just below the green summit, and long grey crumbling clay slopes patched with green scrub falling below it to the beach", "shingle beach and sea", "day"),
     "hengistbury": ("A low headland with a flat heath-covered top and dark sandy cliffs, a long sand spit running out from it lined with rows of little colourful beach huts", "dark harbour water", "night"),
-    "needles": ("Three separate sharp pointed white chalk rocks standing in the sea in a straight line like a row of teeth, running out from the tip of a tall white chalk headland with a green grassy top, each rock smaller than the last, a short round red and white striped lighthouse on the rocks at the foot of the last one", "sea", "dusk"),
+    "needles": ("Seen from a boat out at sea: the white chalk tip of an island with a green grassy top, and running out from it in a straight line three separate low jagged white chalk rocks rising straight out of the water like broken teeth, and at the end of the line, standing on the sea at the foot of the last rock, a short round red and white striped lighthouse about as tall as the rocks", "open sea", "dusk"),
 }
 
 def take(place, seed):

diff --git a/tools/coastrun/make_hero.py b/tools/coastrun/make_hero.py
@@ -14,6 +14,7 @@ def main():
     place, src, foot = sys.argv[1], sys.argv[2], float(sys.argv[3])
     x0, x1 = (float(sys.argv[4]), float(sys.argv[5])) if len(sys.argv) > 5 else (0.0, 1.0)
     sea, desat = len(sys.argv) > 6 and sys.argv[6] == '1', float(sys.argv[7]) if len(sys.argv) > 7 else 0.0
+    sfade, ffade = (float(sys.argv[8]), float(sys.argv[9])) if len(sys.argv) > 9 else (0.1, 0.16)   # how far in the sides and the foot fade out
     a = np.asarray(Image.open(src).convert('RGB')).astype(np.float32); h, w, _ = a.shape
     alpha, land = key_sky(a)
     if sea:
@@ -27,9 +28,10 @@ def main():
     c0, c1, yb = int(x0 * w), int(x1 * w), int(foot * h)
     top = max(0, int(land[c0:c1].min()) - 6)
     rgba = np.dstack([a, alpha * 255])[top:yb, c0:c1].copy(); hh, ww = rgba.shape[:2]
-    fy = np.clip((hh - np.arange(hh)) / (hh * 0.16), 0, 1) ** 1.5   # the foot fades out into the haze
-    fx = np.clip(np.minimum(np.arange(ww), ww - 1 - np.arange(ww)) / (ww * 0.1), 0, 1)   # and so do the two sides
-    rgba[..., 3] *= fy[:, None] * fx[None, :]
+    fy = np.clip((hh - np.arange(hh)) / (hh * ffade), 0, 1) ** 1.5   # the foot fades out into the haze
+    fx = np.clip(np.minimum(np.arange(ww), ww - 1 - np.arange(ww)) / (ww * sfade), 0, 1)   # and so do the two sides
+    low = np.clip((np.arange(hh) - hh * 0.55) / (hh * 0.45), 0, 1)[:, None]   # (low down, where a painted sea shows, the sides fade in further: no square corners)
+    rgba[..., 3] *= fy[:, None] * (fx[None, :] ** (1 + 2 * low))
     im = Image.fromarray(np.clip(rgba, 0, 255).astype(np.uint8), 'RGBA')
     if im.width > 1024: im = im.resize((1024, round(im.height * 1024 / im.width)), Image.LANCZOS)
     dst = os.path.join(os.path.dirname(os.path.abspath(__file__)), '..', '..', 'games', 'coastrun', 'bg', 'hero-' + place + '.webp')
